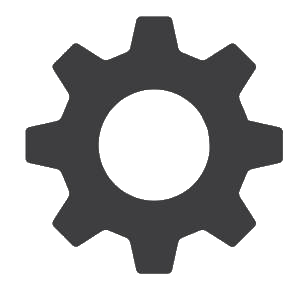
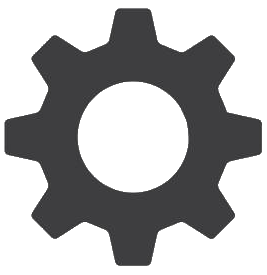
[portfolio] Régler problème imageAccueil et engrenage

diff --git a/src/app/home-page/home-page.component.css b/src/app/home-page/home-page.component.css
@@ -1,13 +1,14 @@
 #imagePrincipale{
   padding-top:60px;
-  background-size: cover;
-  height: 600px;
+  width:100%;
+  height: 700px;
+  z-index:1;
 }
 h1{
   text-align: center;
   color: white;
   font-size: 6em;
-  margin-top: 100px;
+  margin-top: -550px;
   text-shadow: 1px 1px 2px black;
   font-family: 'Inika', sans-serif;
 }
@@ -15,9 +16,11 @@ h1{
   margin-top:-70px;
 }
 #traitImagePrincipale {
+  position:relative;
+  z-index:2;
   height: 3px;
   width: 25%;
-  margin: -20px auto;
+  margin: -20px  auto;
   background-color: white;
   box-shadow: 1px 1px 1px black;
 }
@@ -26,7 +29,7 @@ h1{
   background: linear-gradient(#FEFFD7,#FFC2C2);
   text-decoration-color: black;
   color: black;
-  margin-bottom:0px;
+  margin-top: 250px;
 }
 .monParcours{
   display: flex;

diff --git a/src/app/Components/engrenage/engrenage.component.css b/src/app/Components/engrenage/engrenage.component.css
@@ -2,8 +2,7 @@
   position:absolute;
   left:0;
   top:50%;
-  margin-left: 280px;
-  /*background: url(assets/engrenage1.png)no-repeat;*/
+  margin-left: 275px;
   height:290px;
   width:305px;
   transform: translateY(-50%)  scale(0.6);
@@ -19,10 +18,9 @@
   }
 }
 #engrenage2{
-  /*background : url(assets/engrenage2.png)no-repeat;*/
   position:absolute;
   left:0;
-  top:27%;
+  top:25%;
   margin-left: 425px;
   height:175px;
   width:180px;

diff --git a/src/app/home-page/home-page.component.html b/src/app/home-page/home-page.component.html
@@ -1,4 +1,5 @@
-<div id="imagePrincipale">
+<div id="entree">
+  <img id="imagePrincipale" src="assets/accueil.jpg">
   <h1> Portfolio </h1>
   <h1 id="nomSib"> Sibylle Favreau</h1>
   <div id="traitImagePrincipale"></div>

diff --git a/src/app/Components/projet-droit/projet-droit.component.css b/src/app/Components/projet-droit/projet-droit.component.css
@@ -8,6 +8,7 @@
   margin-right: 20px;
   display:flex;
   margin-top: 20px;
+  box-shadow: 2px 1px 17px 1px rgba(0,0,0,0.38);
 }
 #titre, #decrire{
   font-family: 'Inika', sans-serif;

diff --git a/src/app/Components/projet-gauche/projet-gauche.component.css b/src/app/Components/projet-gauche/projet-gauche.component.css
@@ -8,6 +8,7 @@
   margin-left: 20px;
   display:flex;
   margin-top:20px;
+  box-shadow: 2px 1px 17px 1px rgba(0,0,0,0.38);
 }
 #titre, #decrire{
   font-family: 'Inika', sans-serif;
